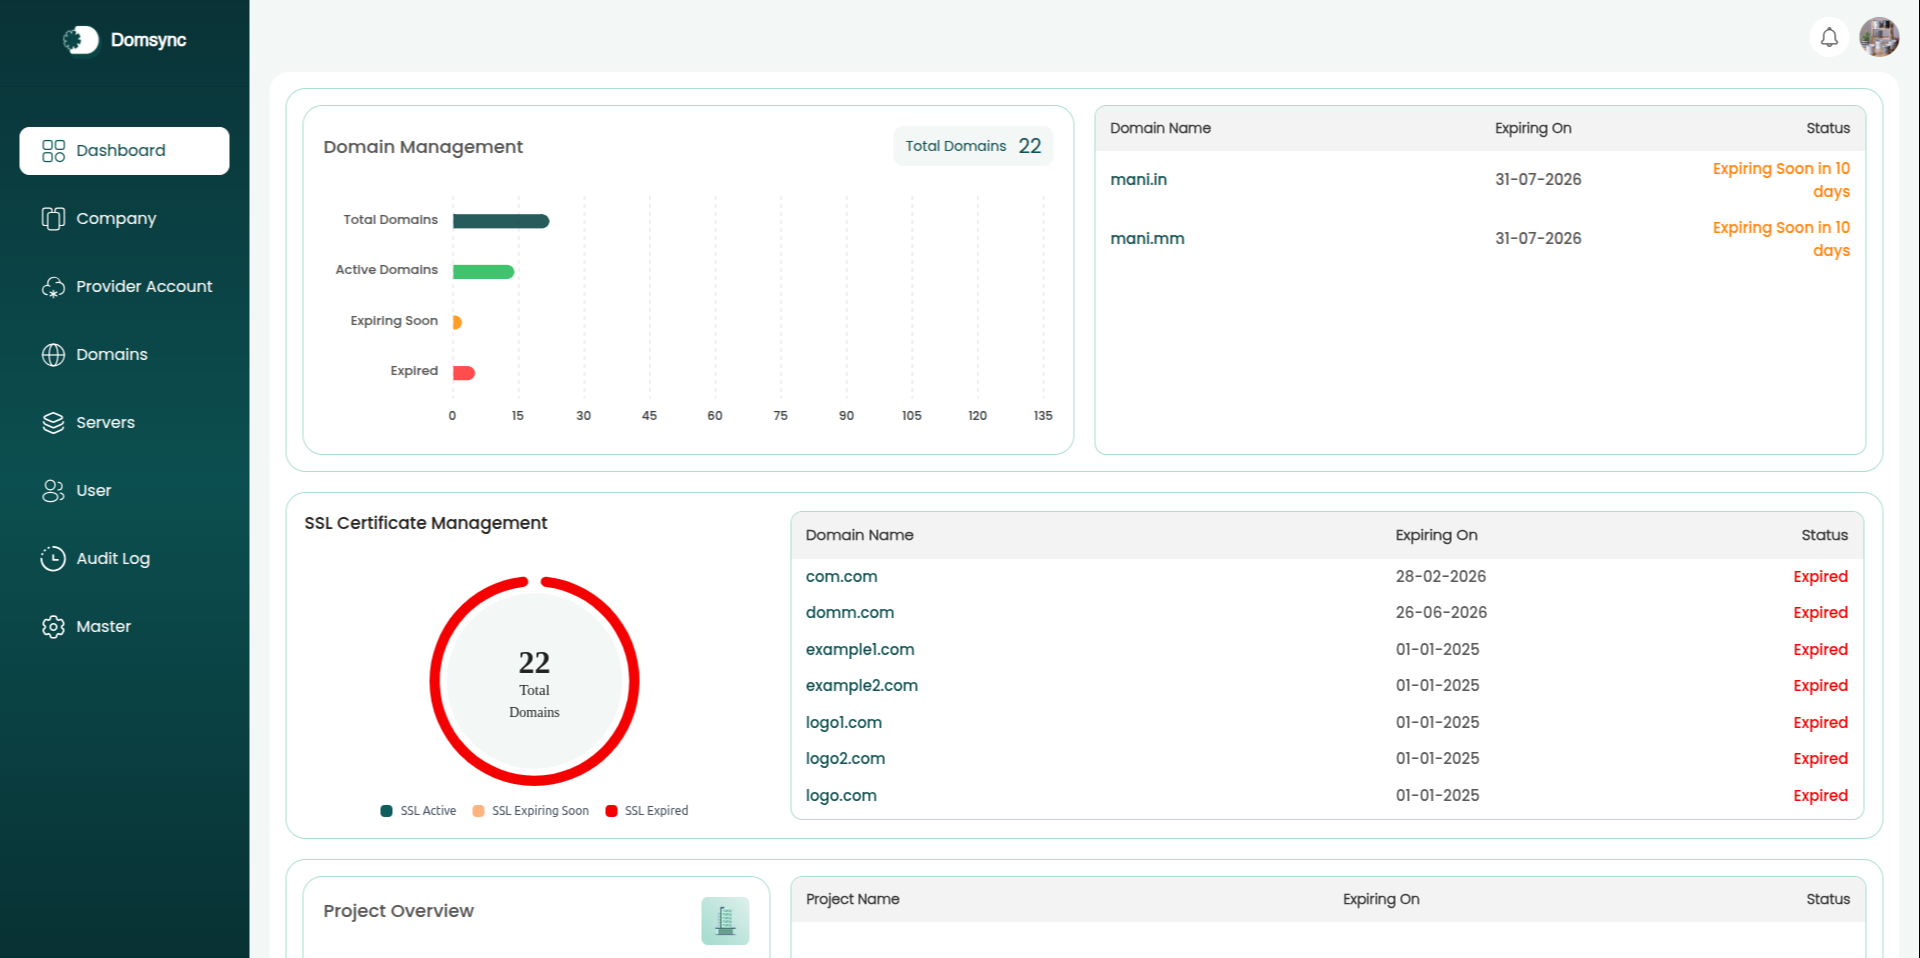
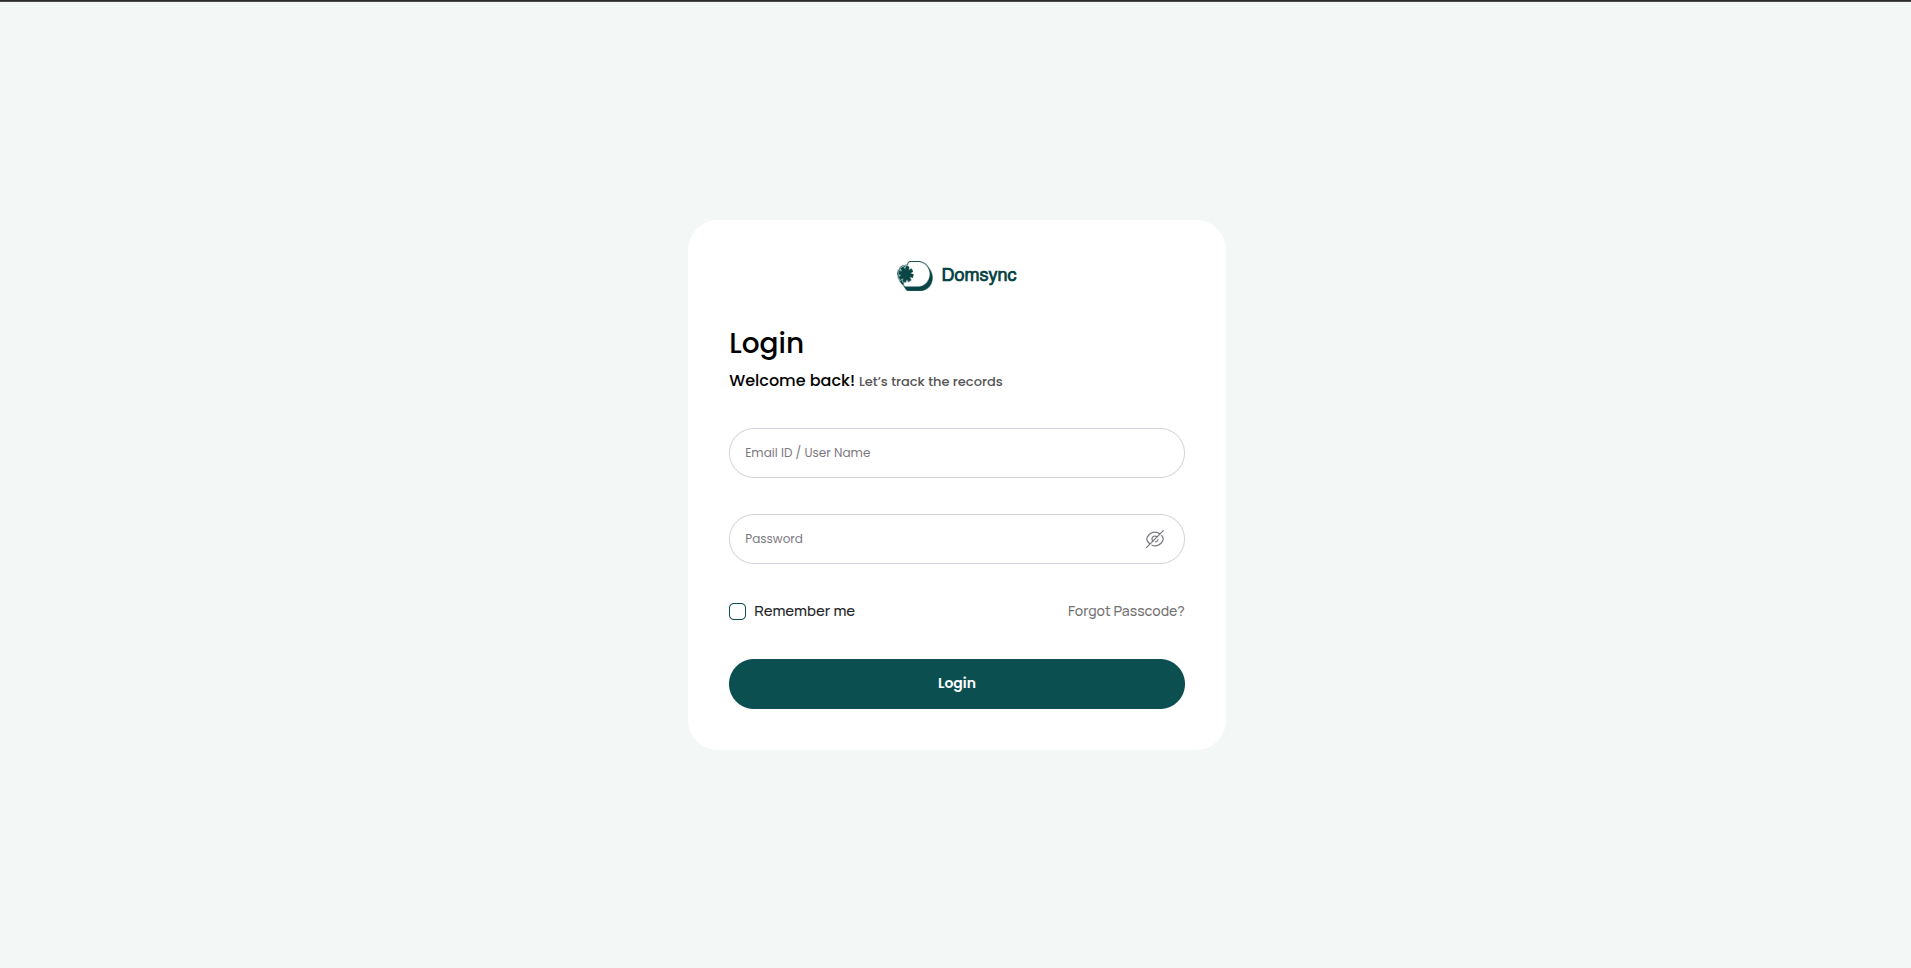
changes added

diff --git a/src/sections/Projects.jsx b/src/sections/Projects.jsx
@@ -15,7 +15,7 @@ const projects = [
     description:
       "A modern real estate platform designed to showcase properties with a responsive, visually engaging, and seamless user experience.",
     image: "/projects/project3.png",
-    tags: ["HTML", "CSS","Tailwind", "Javascript", "React", "OpenAI", "Redux"],
+    tags: ["HTML", "CSS", "Tailwind", "Javascript", "React", "OpenAI", "Redux"],
     link: "https://rethinkvirera.com/",
     github: "#",
   },
@@ -24,7 +24,7 @@ const projects = [
     description:
       "A modern fintech platform enabling seamless loan management, banking operations, and real-time financial insights.",
     image: "/projects/project2.png",
-    tags: ["HTML", "CSS","Tailwind", "Javascript", "React", "OpenAI", "Redux","Mysql"],
+    tags: ["HTML", "CSS", "Tailwind", "Javascript", "React", "OpenAI", "Redux", "Mysql"],
     link: "https://dev.finzorcbs.com/",
     github: "#",
   },
@@ -33,7 +33,7 @@ const projects = [
     description:
       "A powerful web hosting platform designed to simplify website management, domain services, and hosting operations with a seamless user experience.",
     image: "/projects/project4.png",
-    tags: ["HTML", "CSS","Tailwind", "Javascript", "React", "OpenAI", "Redux"],
+    tags: ["HTML", "CSS", "Tailwind", "Javascript", "React", "OpenAI", "Redux"],
     link: "https://hostengine.com/",
     github: "#",
   },
@@ -107,12 +107,19 @@ export const Projects = () => {
                   <h3 className="text-xl font-semibold group-hover:text-primary transition-colors">
                     {project.title}
                   </h3>
+                  <a
+                    href={project?.link}
+                    target="_blank"
+                    rel="noopener noreferrer"
+                    aria-label={`Open ${project?.title}`}
+                  >
                   <ArrowUpRight
                     className="w-5 h-5 
                   text-muted-foreground group-hover:text-primary
                    group-hover:translate-x-1 
                    group-hover:-translate-y-1 transition-all"
                   />
+                  </a>
                 </div>
                 <p className="text-muted-foreground text-sm">
                   {project.description}

diff --git a/src/layout/Navbar.jsx b/src/layout/Navbar.jsx
@@ -6,7 +6,7 @@ const navLinks = [
   { href: "#about", label: "About" },
   { href: "#projects", label: "Projects" },
   { href: "#experience", label: "Experience" },
-  { href: "#testimonials", label: "Testimonials" },
+  // { href: "#testimonials", label: "Testimonials" },
 ];
 
 export const Navbar = () => {
@@ -23,11 +23,17 @@ export const Navbar = () => {
     return () => window.removeEventListener("scroll", handleScroll);
   }, []);
 
+  const handleMobileNavClick = () => {
+    setIsMobileMenuOpen(false);
+    document.getElementById("contact")?.scrollIntoView({
+      behavior: "smooth",
+    });
+  }
+
   return (
     <header
-      className={`fixed top-0 left-0 right-0 transition-all duration-500 ${
-        isScrolled ? "glass-strong py-3" : "bg-transparent py-5"
-      }  z-50`}
+      className={`fixed top-0 left-0 right-0 transition-all duration-500 ${isScrolled ? "glass-strong py-3" : "bg-transparent py-5"
+        }  z-50`}
     >
       <nav className="container mx-auto px-6 flex items-center justify-between">
         <a
@@ -54,7 +60,9 @@ export const Navbar = () => {
 
         {/* CTA Button */}
         <div className="hidden md:block">
-          <Button size="sm">Contact Me</Button>
+          <Button size="sm" onClick={() => document.getElementById("contact")?.scrollIntoView({ behavior: "smooth", })}>
+            Let's Talk
+          </Button>
         </div>
 
         {/* Mobile Menu Button */}
@@ -81,7 +89,7 @@ export const Navbar = () => {
               </a>
             ))}
 
-            <Button onClick={() => setIsMobileMenuOpen(false)}>
+            <Button onClick={handleMobileNavClick}>
               Contact Me
             </Button>
           </div>

diff --git a/src/sections/Hero.jsx b/src/sections/Hero.jsx
@@ -39,7 +39,7 @@ export const Hero = () => {
 
   const handleDownload = () => {
     const link = document.createElement("a");
-    link.href = "/resume.pdf";
+    link.href = "/arunachalam-resume.pdf";
     link.download = "Arunachalam_Resume.pdf";
     link.click();
   }
@@ -124,6 +124,7 @@ export const Hero = () => {
                 <a
                   key={idx}
                   href={social.href}
+                  target="_blank"
                   className="p-2 rounded-full glass hover:bg-primary/10 hover:text-primary transition-all duration-300"
                 >
                   {<social.icon className="w-5 h-5" />}

diff --git a/src/layout/Footer.jsx b/src/layout/Footer.jsx
@@ -10,7 +10,7 @@ const footerLinks = [
   { href: "#about", label: "About" },
   { href: "#projects", label: "Projects" },
   { href: "#experience", label: "Experience" },
-  { href: "#contact", label: "Contact" },
+  // { href: "#contact", label: "Contact" },
 ];
 
 export const Footer = () => {
@@ -46,6 +46,7 @@ export const Footer = () => {
               <a
                 key={social.label}
                 href={social.href}
+                target="_blank"
                 aria-label={social.label}
                 className="p-2 rounded-full glass hover:bg-primary/10 hover:text-primary transition-all"
               >

diff --git a/src/sections/Contact.jsx b/src/sections/Contact.jsx
@@ -219,6 +219,7 @@ export const Contact = () => {
                   <a
                     key={i}
                     href={item.href}
+                    target="_blank"
                     className="flex items-center gap-4 p-4 rounded-xl hover:bg-surface transition-colors group"
                   >
                     <div className="w-12 h-12 rounded-xl bg-primary/10 flex items-center justify-center group-hover:bg-primary/20 transition-colors">
